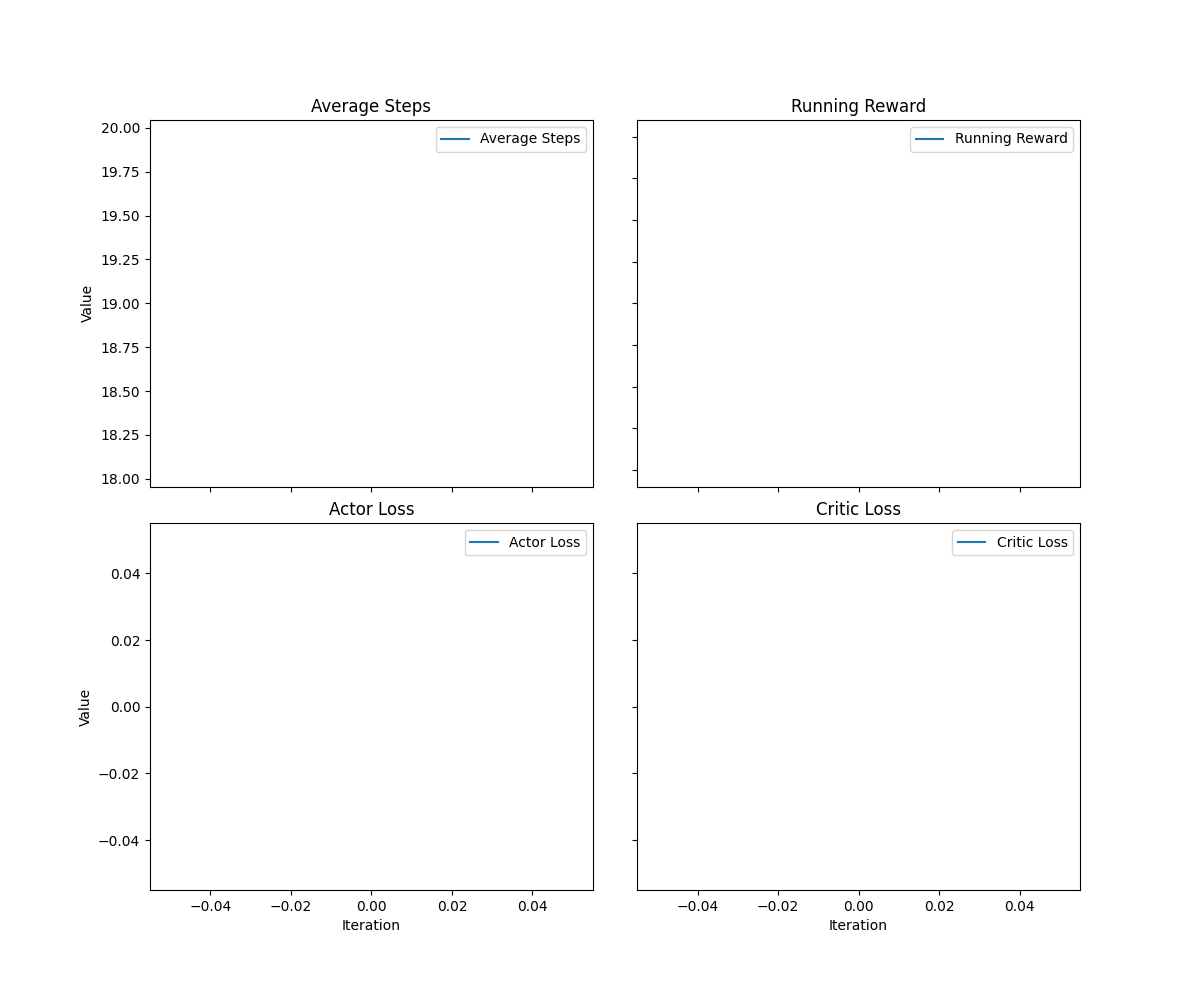
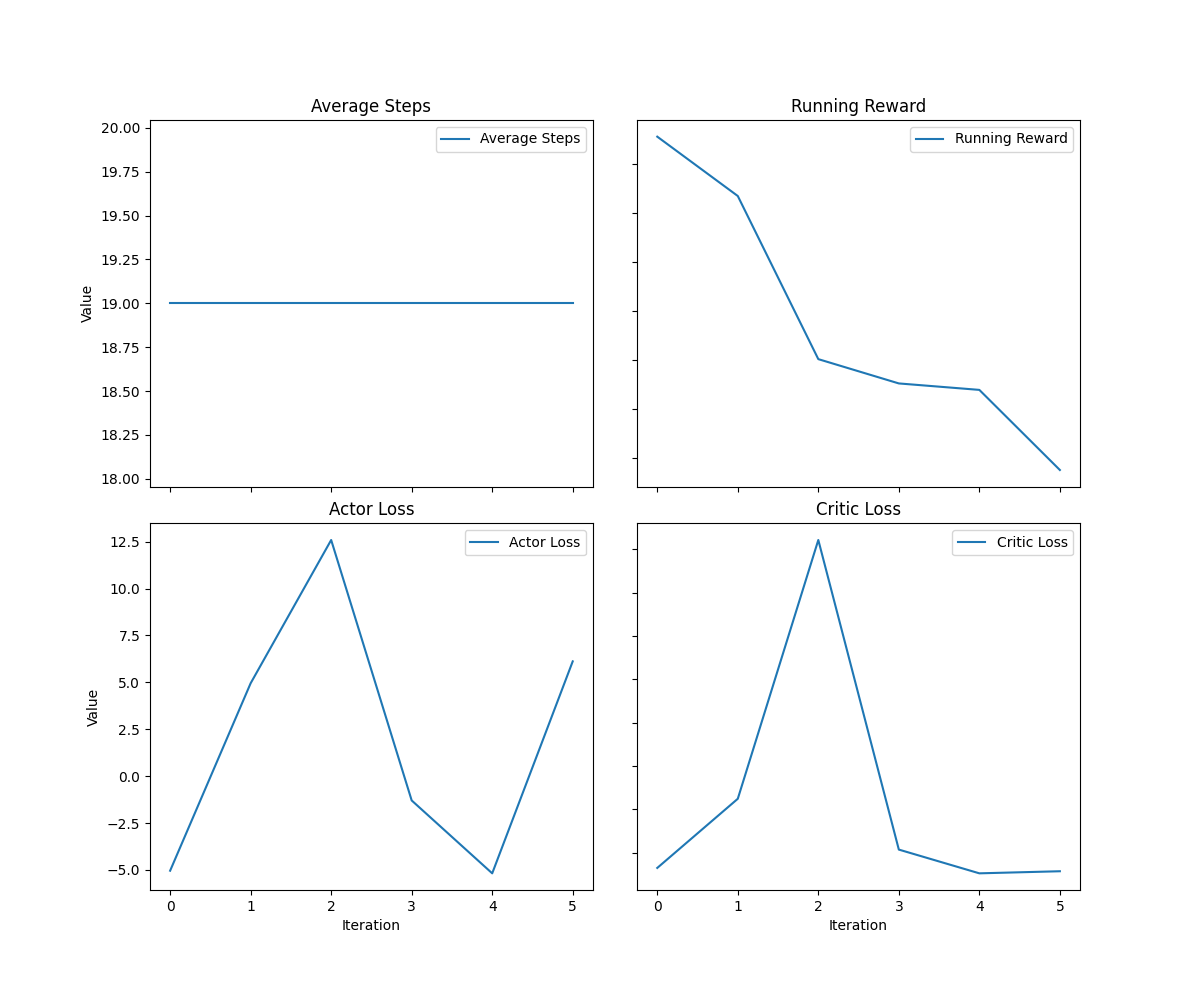
fix error parts

diff --git a/train.py b/train.py
@@ -53,7 +53,14 @@ class Train:
                 tensor_manager.values_tensor,
                 tensor_manager.log_probs_tensor,
             ):
-
+                state, action, return_, adv, old_value, old_log_prob = (
+                    state.squeeze(),
+                    action.squeeze(),
+                    return_.squeeze(),
+                    adv.squeeze(),
+                    old_value.squeeze(),
+                    old_log_prob.squeeze(),
+                )
                 # 업데이트된 숨겨진 상태를 사용하여 critic 및 actor 업데이트
                 value = self.agent.get_value(state, use_grad=True)
 
@@ -68,8 +75,8 @@ class Train:
                 entropy_loss = new_dist.entropy().mean()
 
                 actor_loss_temp += -0.03 * entropy_loss
-                actor_loss += actor_loss_temp / len(self.choose_mini_batch)
-                critic_loss += critic_loss / len(self.choose_mini_batch)
+                actor_loss += actor_loss_temp / self.mini_batch_size
+                critic_loss += critic_loss / self.mini_batch_size
 
                 self.agent.optimize(actor_loss_temp, critic_loss)
 
@@ -114,7 +121,7 @@ class Train:
                 device=self.device,
             )
             states = self.env.reset()
-            states = torch.tensor(states, dtype=torch.float32).unsqueeze(0).permute(0, 2, 1).to(self.device)
+            states = torch.tensor(states, dtype=torch.float32).unsqueeze(0).permute(0,2,1).to(self.device)
             # 1 episode (data collection)
             for t in range(self.horizon):
                 # Actor
@@ -137,7 +144,7 @@ class Train:
                 )
                 
 
-                states = torch.tensor(next_states, dtype=torch.float32).unsqueeze(0).permute(0, 2, 1).to(self.device)
+                states = torch.tensor(next_states, dtype=torch.float32).unsqueeze(0).permute(0,2,1).to(self.device)
             
             next_value = self.agent.get_value(states, use_grad=False)
             tensor_manager.values_tensor[:, -1] = next_value.squeeze()
@@ -148,7 +155,7 @@ class Train:
             actor_loss, critic_loss = self.train(tensor_manager)
             eval_rewards = torch.sum(tensor_manager.rewards_tensor)
 
-            self.print_logs(iteration, actor_loss, critic_loss, eval_rewards, t)
+            self.print_logs(iteration, actor_loss.detach().numpy(), critic_loss.detach().numpy(), eval_rewards, t)
 
     def choose_mini_batch(
         self,
@@ -160,19 +167,19 @@ class Train:
         values,
         log_probs,
     ):
-        full_batch_size = states.size(0)
-        for _ in range(full_batch_size // mini_batch_size):
+
+        for _ in range(self.horizon // mini_batch_size):
             # 무작위로 mini_batch_size 개의 인덱스를 선택
-            indices = torch.randperm(full_batch_size)[:mini_batch_size].to(
+            indices = torch.randperm(self.horizon)[:mini_batch_size].to(
                 states.device
             )
             yield (
-                states[indices],
-                actions[indices],
-                returns[indices],
-                advs[indices],
-                values[indices],
-                log_probs[indices],
+                states[:, indices],
+                actions[:, indices],
+                returns[:, indices],
+                advs[:, indices],
+                values[:, indices],
+                log_probs[:, indices],
             )
 
     def print_logs(self, iteration, actor_loss, critic_loss, eval_rewards, steps):
@@ -185,7 +192,7 @@ class Train:
         current_actor_lr = self.agent.actor_optimizer.param_groups[0]["lr"]
         current_critic_lr = self.agent.critic_optimizer.param_groups[0]["lr"]
 
-        self.steps_history.append(steps )
+        self.steps_history.append(steps)
         self.rewards_history.append(running_reward.item())
         self.actor_loss_history.append(actor_loss)
         self.critic_loss_history.append(critic_loss)

diff --git a/AirfoilEnv.py b/AirfoilEnv.py
@@ -9,8 +9,8 @@ class CustomAirfoilEnv:
         self.xfoil = XFoil()
         self.xfoil.Re = 1e6
         self.xfoil.max_iter = 100  # 최대 반복 횟수
-        self.circles = [((0, 0), 0.05), ((1, 0), 0.001)]
-        self.state = self.get_airfoil_points(self.circles)  # state는 점을 제공
+        self.circles = [((0, 0), 0.05), ((1, 0), 0.002)]
+        self.state = self.get_airfoil_points(self.circles)  # state는 점을 제공 shape=(N, 2)
         self.xfoil.airfoil = Airfoil(self.state[:, 0], self.state[:, 1])
 
     def reset(self):
@@ -24,8 +24,13 @@ class CustomAirfoilEnv:
         new_airfoil_points = self.get_airfoil_points(self.circles)
         self.xfoil.airfoil = Airfoil(new_airfoil_points[:, 0], new_airfoil_points[:, 1])
         cl, cd, cm, cp = self.xfoil.a(5)    # angle of attack is 5 degrees
-
-        reward = cl / (cd + 1e-5)
+        """
+        Cl : 양력 계누는 음수일 수 있다.
+        자동차 레이싱에서는 의도적으로 음수가 되어 차량을 도로에 더 단단히 밀착시킨다.
+        Cd : 유체의 흐름에 대항하는 물체의 저항
+        """
+        # reward = cl / (cd + 1e-5)
+        reward = cl
 
         if reward == 0 or np.isnan(reward):
             reward = -1
@@ -66,7 +71,8 @@ class CustomAirfoilEnv:
         """
         Generate airfoil points using linear interpolation of convex hull points.
         """
-        all_points = self.generate_all_circle_points(circles)   
+        all_points = self.generate_all_circle_points(circles)
+        all_points = all_points[all_points[:, 0] <= 1]
         hull = ConvexHull(all_points)
         hull_points = all_points[hull.vertices]
         interpolated_points = self.interpolate_linear_functions(hull_points, N=N)
@@ -82,8 +88,8 @@ class CustomAirfoilEnv:
                 label="Hull Points",
             )
             plt.plot(
-                np.array(interpolated_points[:, 0]),
-                np.array(interpolated_points[:, 1]),
+                np.array(interpolated_points[0]),
+                np.array(interpolated_points[1]),
                 ".r",
                 label="Interpolated Points",
             )
@@ -103,8 +109,8 @@ class CustomAirfoilEnv:
                 label="Hull Points",
             )
             plt.plot(
-                np.array(interpolated_points[:, 0]),
-                np.array(interpolated_points[:, 1]),
+                np.array(interpolated_points[0]),
+                np.array(interpolated_points[1]),
                 ".r",
                 label="Interpolated Points",
             )
@@ -113,7 +119,7 @@ class CustomAirfoilEnv:
             plt.ylabel("Y")
             plt.title("Linear Interpolation of Convex Hull Points")
             plt.savefig('airfoil.png')
-        return interpolated_points
+        return interpolated_points.T
 
     def interpolate_linear_functions(self, hull_points, N=100):
         x_min = np.min(hull_points[:, 0])
@@ -199,7 +205,7 @@ class CustomAirfoilEnv:
 
         x_values = np.concatenate((upper_x_values, lower_x_values))
         y_values = np.concatenate((upper_y_values, lower_y_values))
-        values = np.vstack((x_values, y_values)).T
+        values = np.vstack((x_values, y_values))
 
         return values
 def make_env():

diff --git a/model/agent.py b/model/agent.py
@@ -56,8 +56,8 @@ class Agent(nn.Module):
         actions = nn.Sigmoid()(actions)
         scaled_actions = torch.zeros_like(actions)
         # x 값을 0~0.8로 스케일링
-        scaled_actions[:, :0] = actions[:, :0] * 0.8
+        scaled_actions[0][0] = actions[0][0] * 0.8
         # r 값을 0~0.2로 스케일링
-        scaled_actions[:, 1] = actions[:, 1] * 0.2
+        scaled_actions[0][1] = actions[0][1] * 0.2
 
         return scaled_actions

diff --git a/main.py b/main.py
@@ -6,7 +6,7 @@ from utils import set_seed
 
 ENV_NAME = "CustomAirfoilEnv"
 Number_of_points = 100
-epochs = 50
+epochs = 10
 T = 20
 clip_range = 0.2
 beta = 0.01  # 엔트로피 항에 대한 가중치
